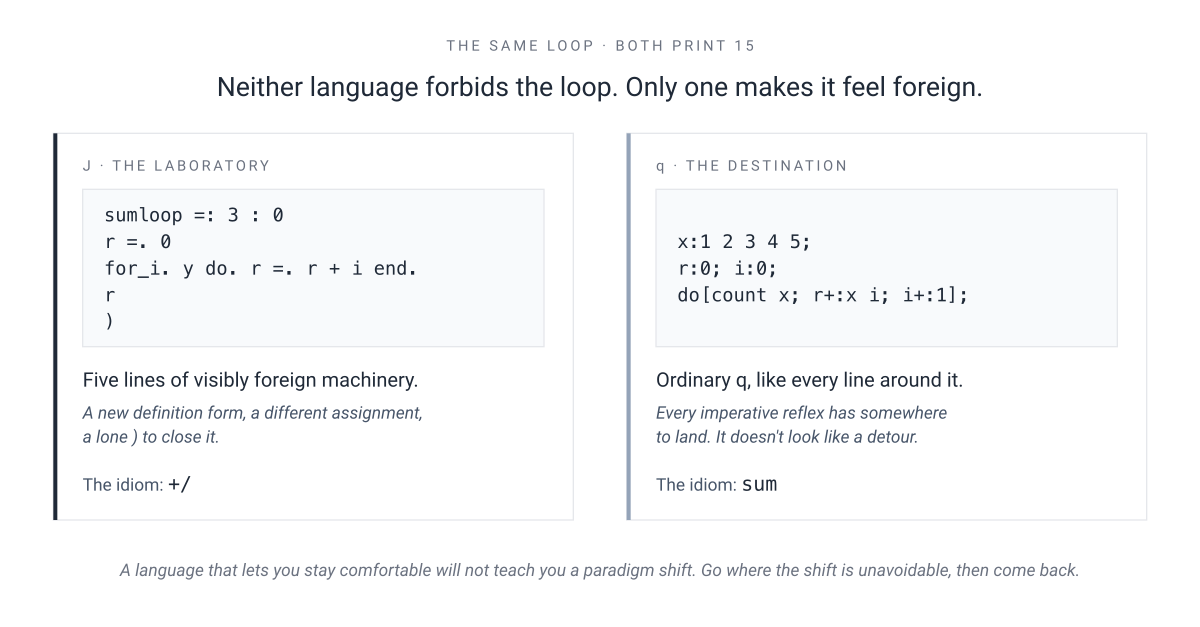
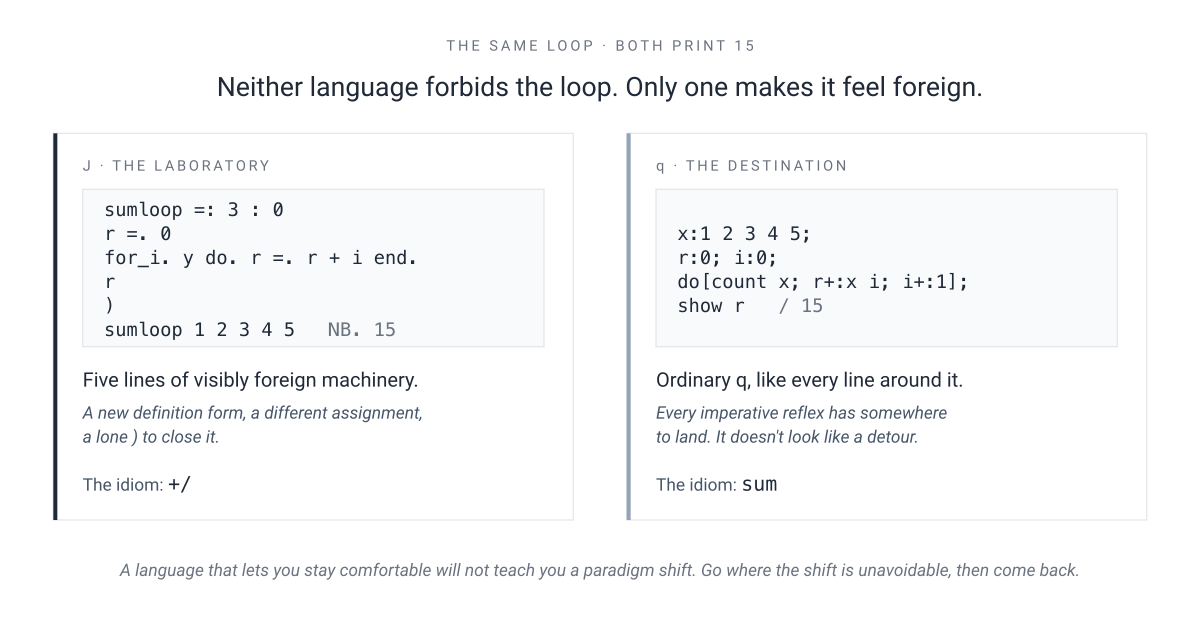
writings/05: act on Codex review (light clean; adversarial 2 of 3 fixed)
Adversarial pass (CODEX_POLICY_OVERRIDE=user-requested-adversarial-review):
- Figure 1 claimed both panels print 15 but neither snippet ran the loop:
  add `sumloop 1 2 3 4 5` and `show r` (replayed: both print 15).
- "the one task where the answers diverged from my reference at all" was
  too strong: task 08 lost a style point and task 09's baseline also chose
  `p#`. Now says both arms departed the same way only on task 15.
- Drop "no performance cliff at the sizes you test on" (as in article 1).
Left for the author: Clause 9 reading of the quoted KX p#/g# speed text.

Claude-Session: https://claude.ai/code/session_01PtEeakS7v3dxuvGTPz8cdi

diff --git a/writings/05-unlearn-the-loop.md b/writings/05-unlearn-the-loop.md
@@ -44,8 +44,8 @@ perfectly ordinary notion of a counter you increment yourself. Every reflex you 
 Python or Java or C has somewhere to land, and the answers come out right.
 
 So you can write q for months — shipping, passing tests, reviewing other people's code — and never
-once make the shift the language was built around. Nothing fails. There is no error, no warning, no
-performance cliff at the sizes you are testing on. The loop is *right there*, and it works.
+once make the shift the language was built around. Nothing fails. There is no error and no warning;
+nothing in the language pushes back. The loop is *right there*, and it works.
 
 I want to be precise about the contrast, because the easy version of this argument is wrong. **It
 is not that J forbids loops.** It doesn't:
@@ -368,9 +368,11 @@ Three solved loop-fix tasks are three data points from a task set I built badly.
 
 What they do support is narrower and still worth something. **On the loop-transliteration exercises
 I could think of, the failure mode this curriculum exists to prevent did not show up.** And the one
-task where the answers diverged from my reference at all was not about loops or reductions or any
-other array idea — it was about sortedness, attributes, and what `aj` requires of the table you hand
-it. It was even a case where I, not the models, had the documentation wrong.
+task where both arms departed from my reference in the same way was not about loops or reductions or
+any other array idea — it was about sortedness, attributes, and what `aj` requires of the table you
+hand it. (The other deviations were smaller: one extra variable binding that cost the baseline a
+style point on a judgement call, and a second as-of-join task where the baseline also chose `` `p# ``
+without being asked about attributes at all.) It was even a case where I, not the models, had the documentation wrong.
 
 **J has nothing to say about any of that.** There is no fork that teaches you `` `g# ``, and no
 rank that tells you when `` `p# `` is the better call.
